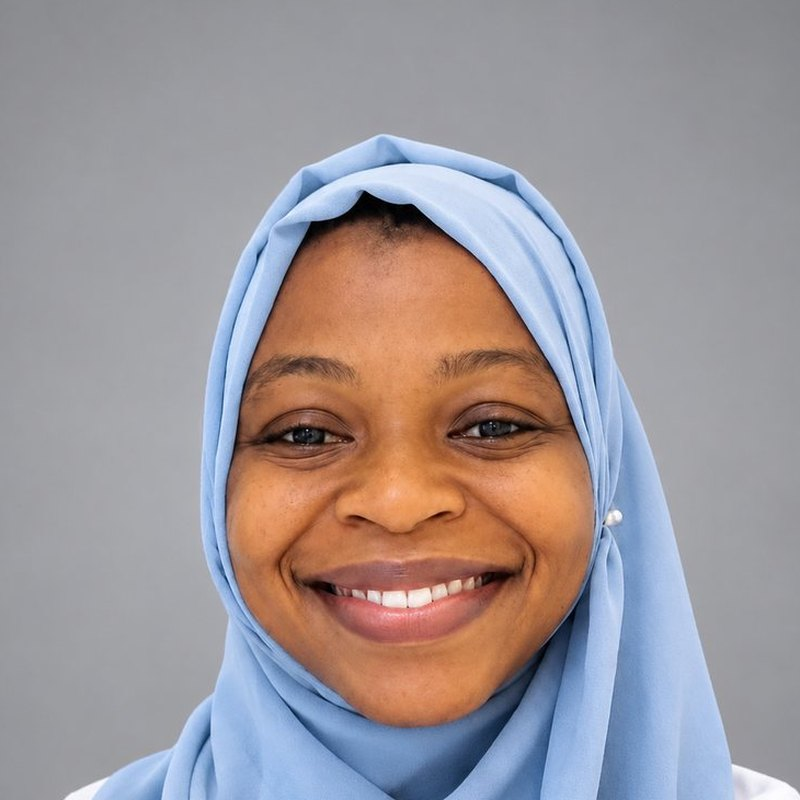
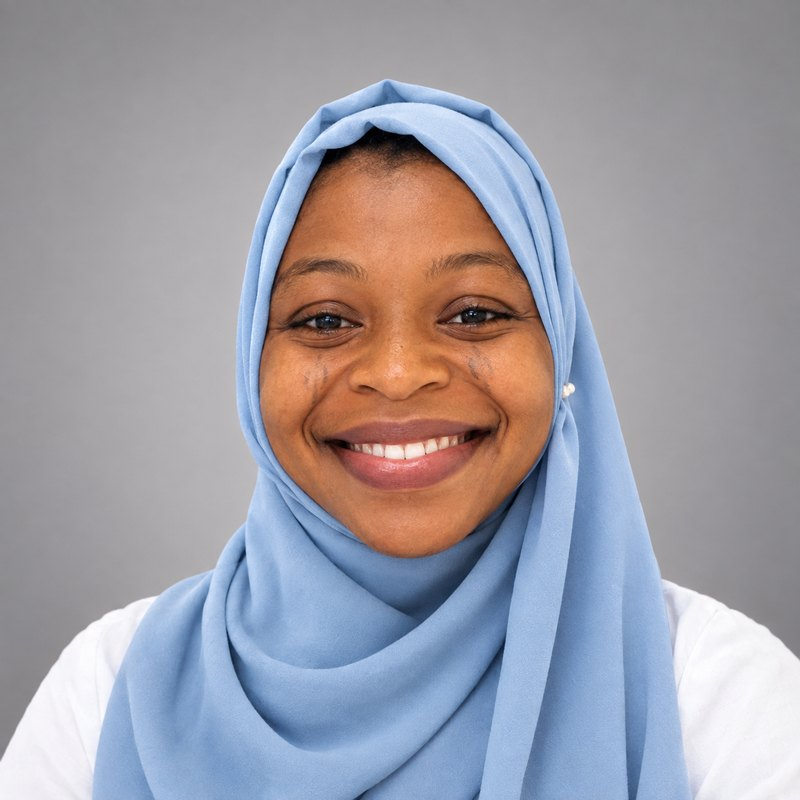
Use the new Loamy preview image; show Selimat's photo uncropped
Swap the Techworks featured-product mockup for the new Loamy platform
preview (desktop + mobile) and update its alt text.

Selimat's photo now uses her supplied square image whole — only resized to
800x800, no cropping — so the card shows the full picture.

diff --git a/src/routes/businesses.techworks.index.tsx b/src/routes/businesses.techworks.index.tsx
@@ -100,7 +100,7 @@ function TechworksPage() {
               <div className="relative bg-bone p-8 md:p-12 flex items-center justify-center">
                 <img
                   src={loamyDashboard}
-                  alt="Loamy dashboard"
+                  alt="Loamy platform preview on desktop and mobile"
                   loading="lazy"
                   className="w-full max-w-xl rounded-sm shadow-[0_30px_80px_-30px_rgba(1,77,64,0.35)]"
                 />
